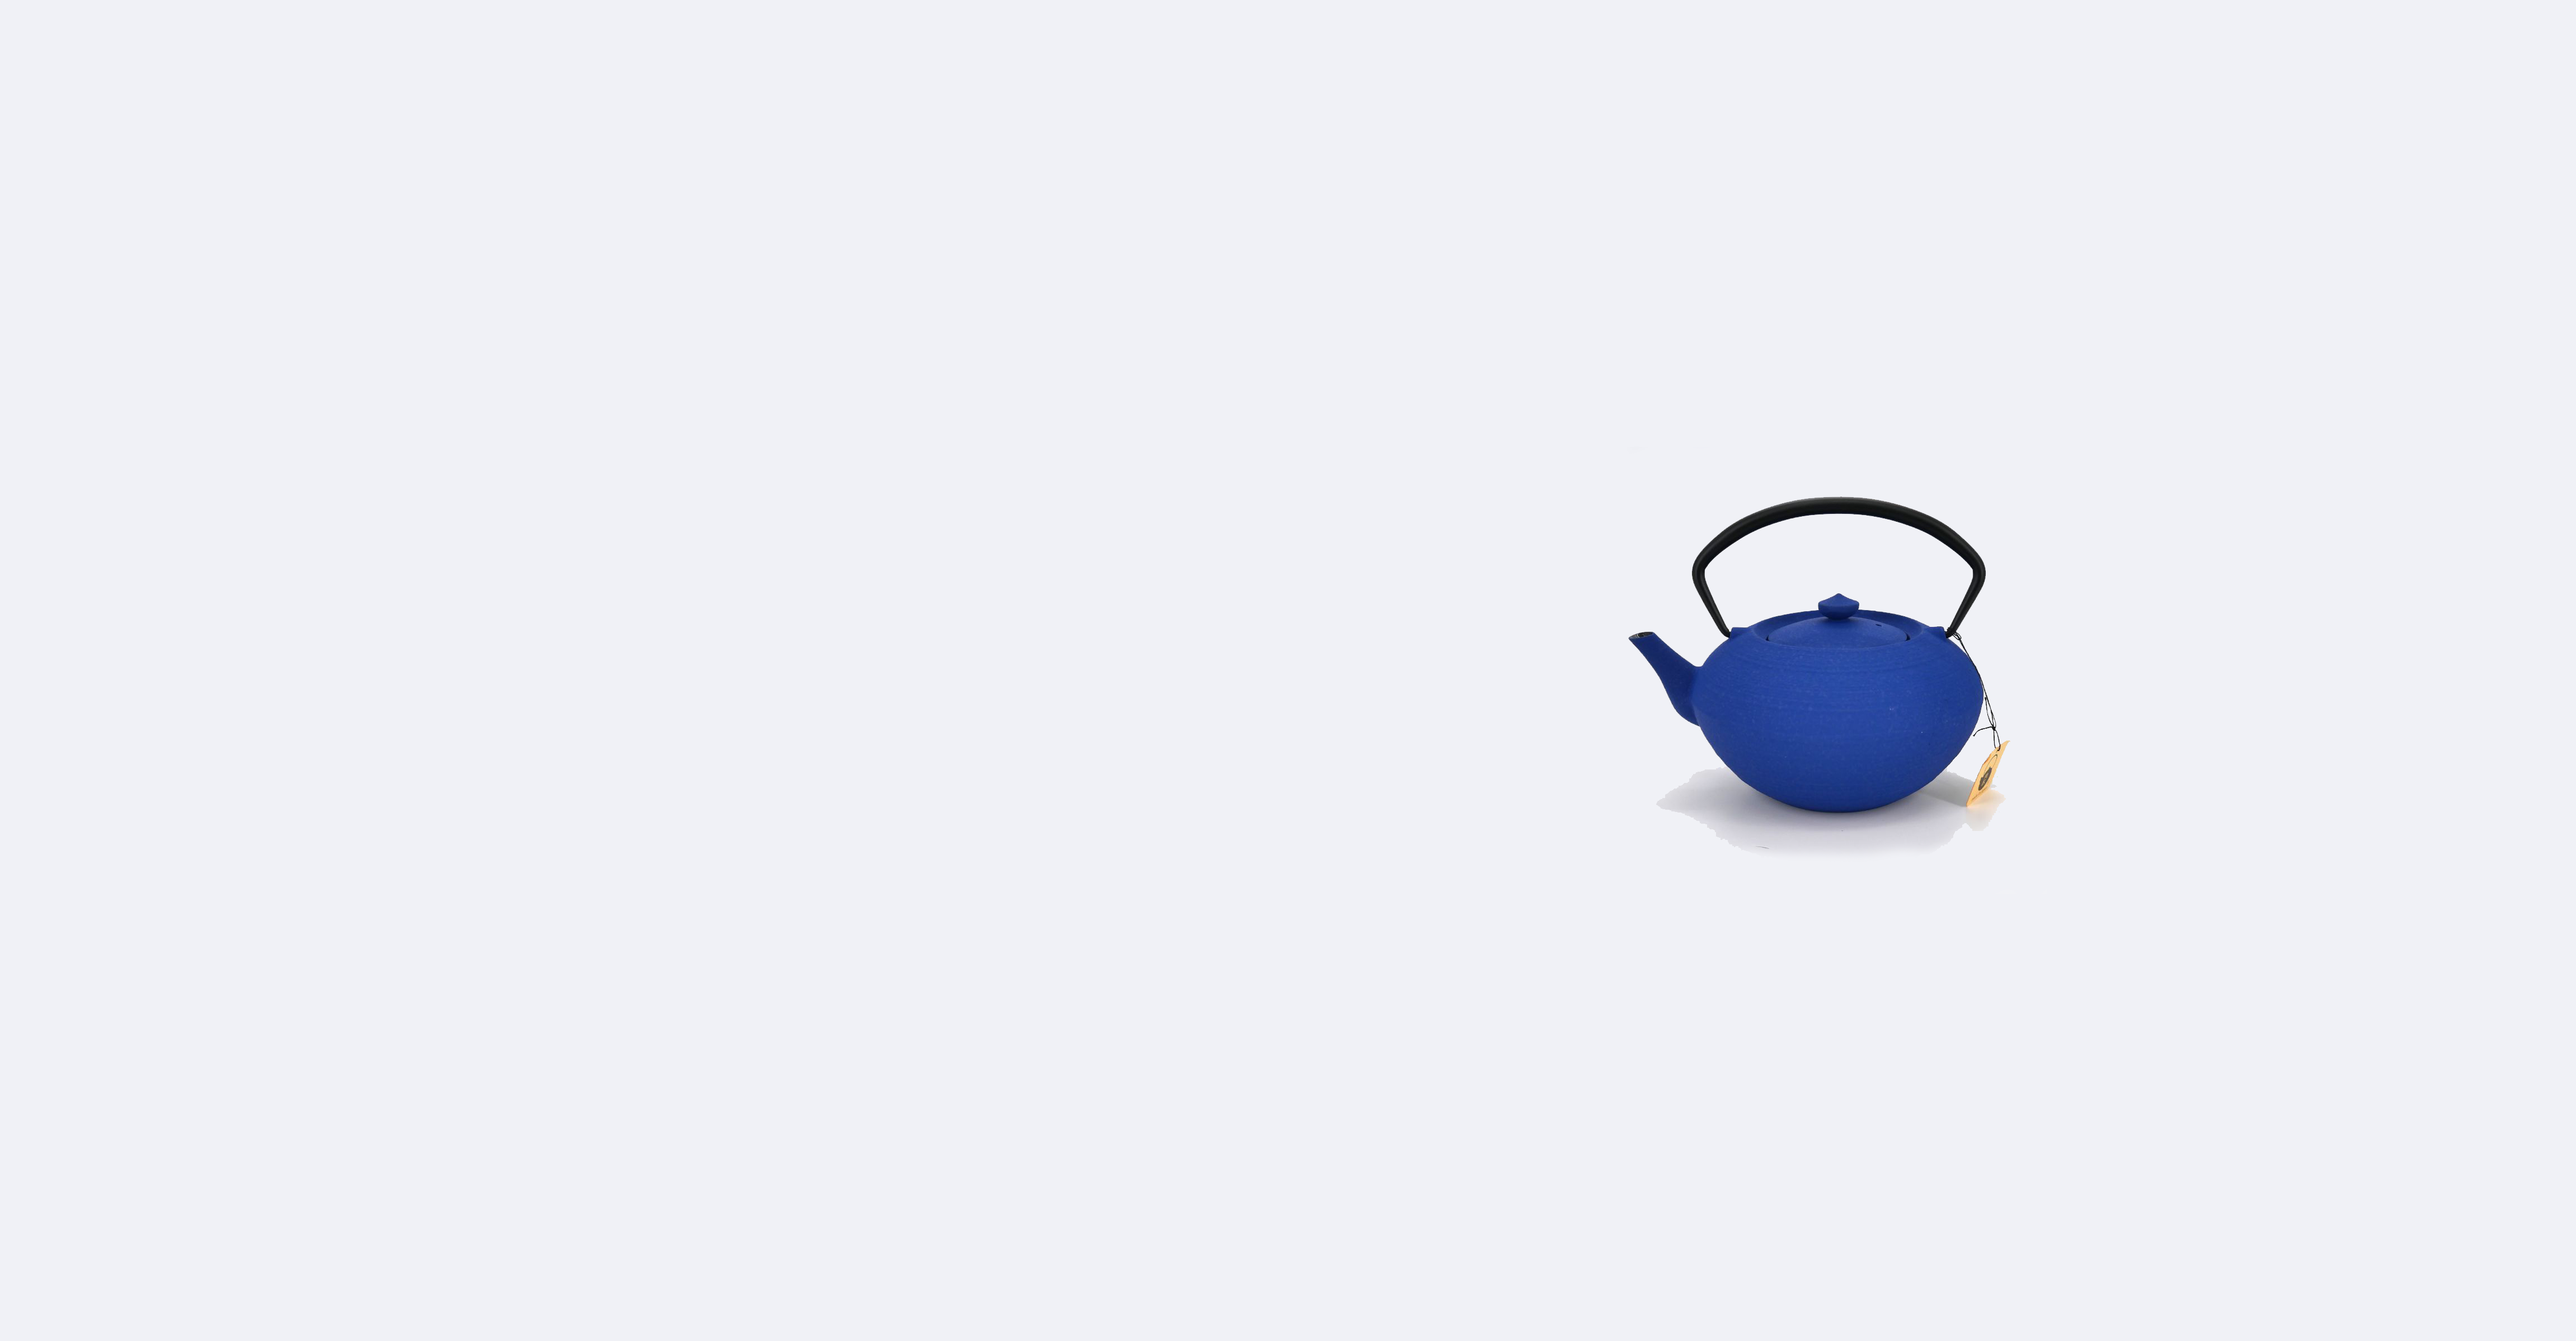
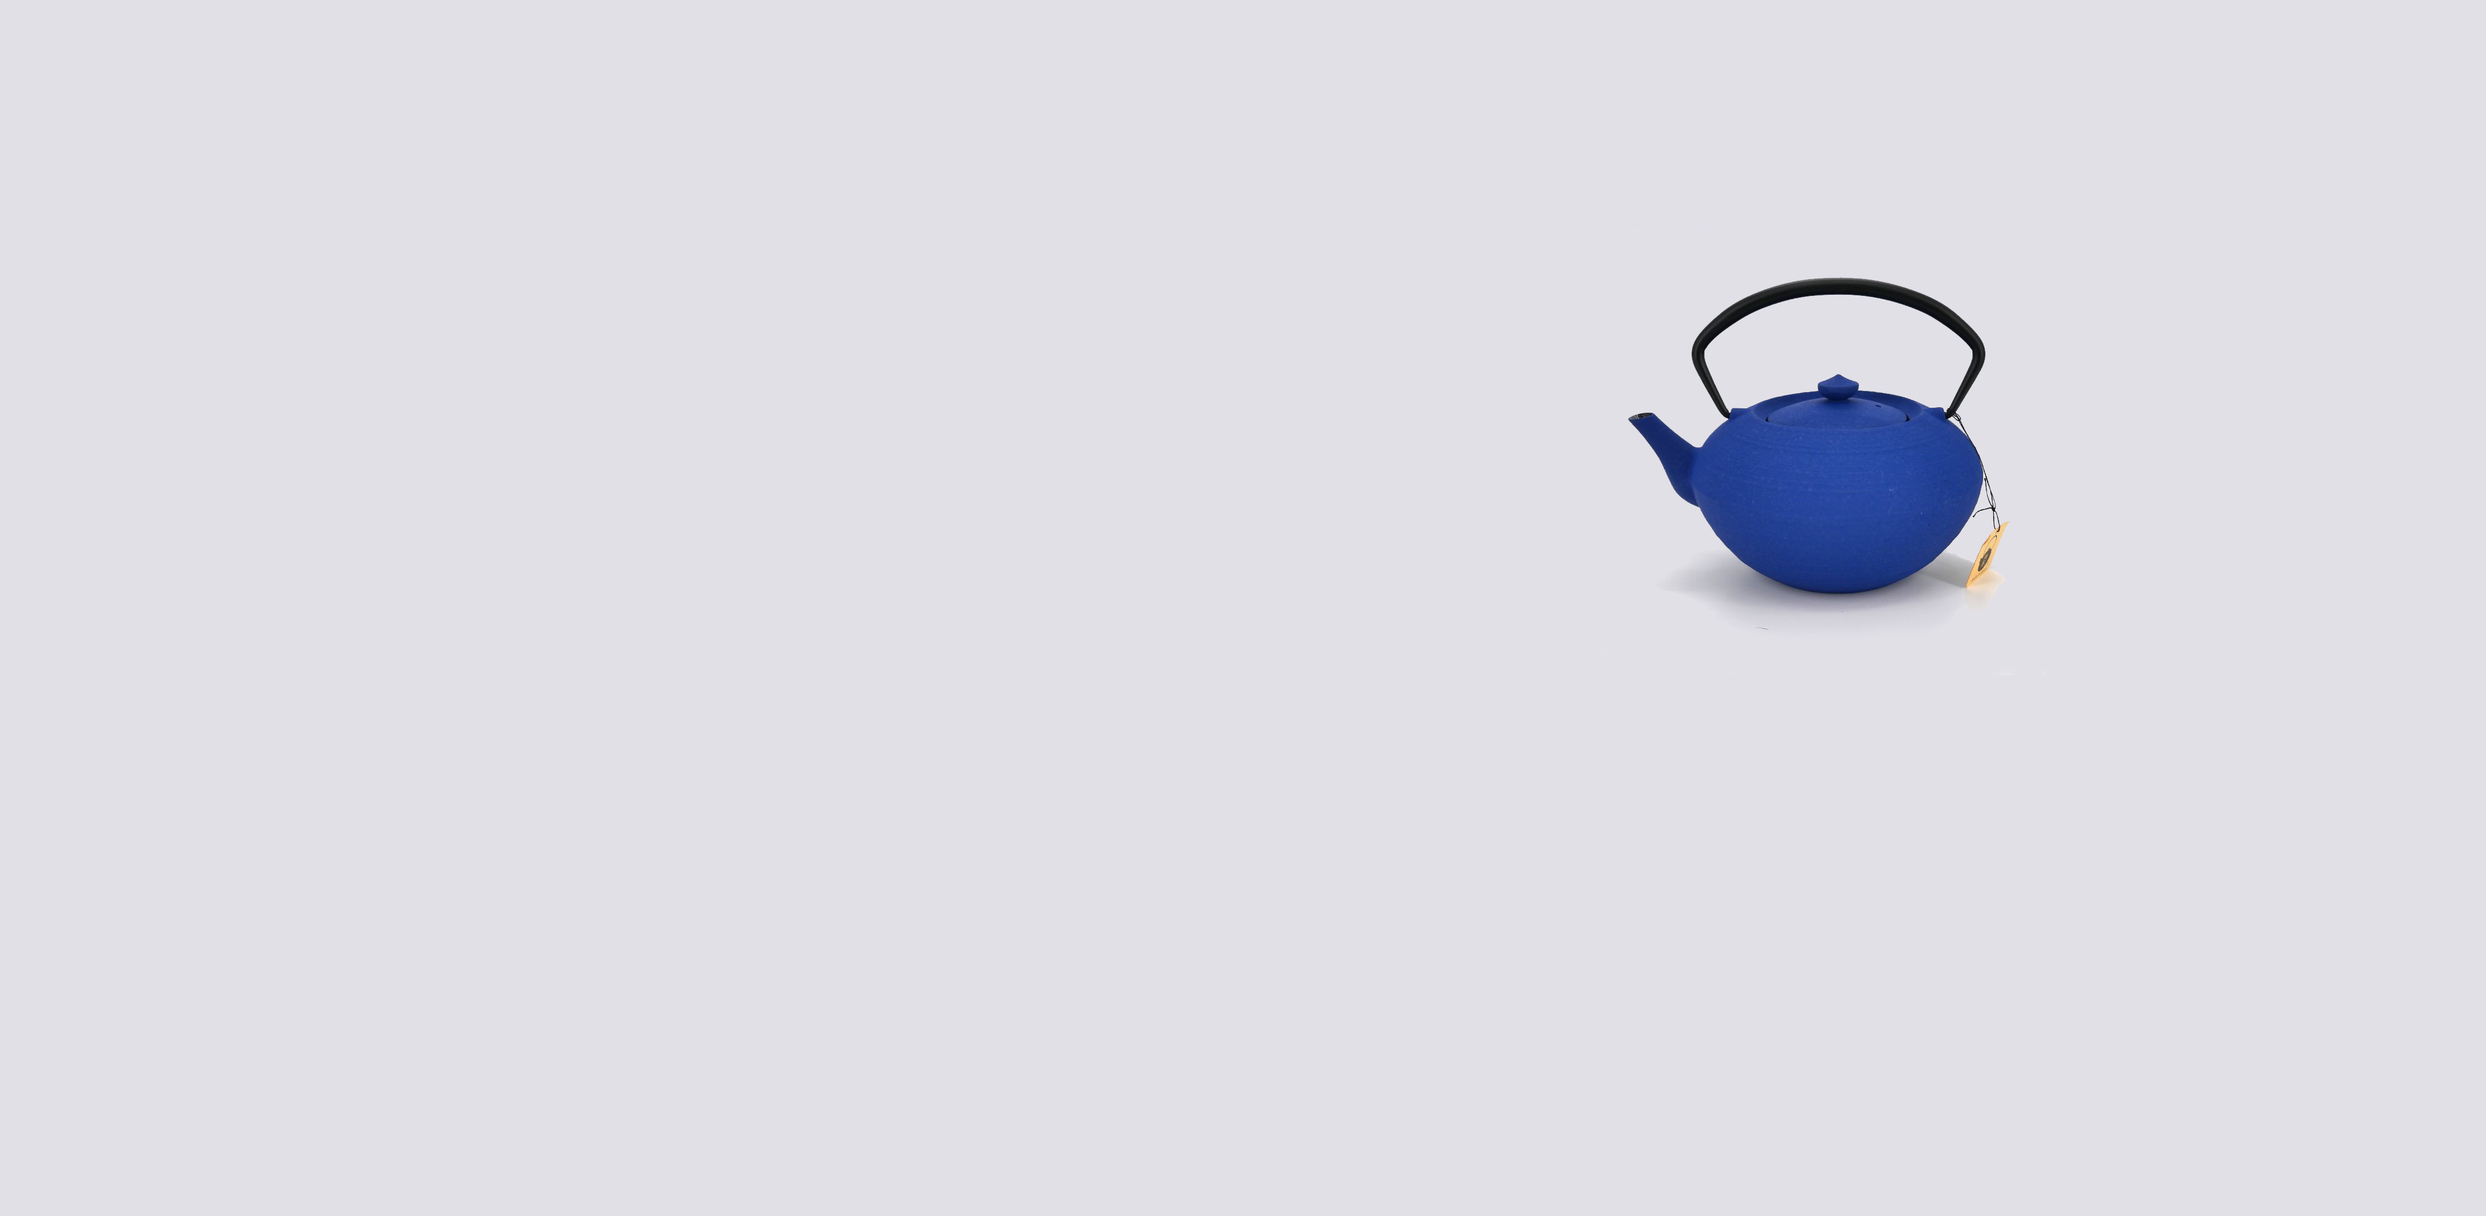
General page styling added

Changed region(s): [[0.6211, 0.2157, 0.8074, 0.6472]]

diff --git a/index.html b/index.html
@@ -64,7 +64,9 @@
     </header>
     <article>
         <div class="page-section about-me-section">
-            <i class="fas fa-user-astronaut blue-icon"></i>
+            <div class="top-level-icon">
+                <i class="fas fa-user-astronaut blue-icon"></i>
+            </div>
             <div class="about-me-inner inner-section">
                 <h3 class="blue-text">About Me</h3>
                 <p>This is some cool text about me, i'll write some kick ass stuff about myself later,
@@ -75,18 +77,18 @@
                     <h4 class="blue-text">Trivia</h4>
                     <div class="row">
                         <div class="col-4">
-                            <img src="assets/icons/beachB.png" class="blue-icon-large">
+                            <img src="assets/icons/beachB.png" class="blue-icon-large second-level-icon">
                             <p>I love outdoor activities like roller-skating, running,
                                 swimming and surfing (though it's tough to surf in Sweden!)</p>
                         </div>
                         <div class="col-4">
-                            <img src="assets/icons/bookB.png" class="blue-icon-large">
+                            <img src="assets/icons/bookB.png" class="blue-icon-large second-level-icon">
                             <p>I have written and self published a childeren's book about time
                                 travel and guineapigs.
                             </p>
                         </div>
                         <div class="col-4">
-                            <img src="assets/icons/light-aircraftB.png" class="blue-icon-large">
+                            <img src="assets/icons/light-aircraftB.png" class="blue-icon-large second-level-icon">
                             <p>I was in the Air Cadets as a teenager, and qualified for a licence to
                                 fly a two man aircraft (sadly it's no longer officially valid).
                             </p>
@@ -98,7 +100,7 @@
         </div>
 
         <div class="page-section work-history-section">
-            <i class="fas fa-building blue-icon"></i>
+            <i class="fas fa-building blue-icon top-level-icon"></i>
             <div class="work-history-inner">
                 <h3 class="blue-text">Work History</h3>
                 <p>This is some cool text about my work history. It will be kind of a sumary of my
@@ -115,17 +117,17 @@
                     <h4 class="blue-text">An Unusual Career</h4>
                     <div class="row">
                         <div class="col-4">
-                            <img src="assets/icons/rescuerB.png" class="blue-icon-large">
+                            <img src="assets/icons/rescuerB.png" class="blue-icon-large second-level-icon">
                             <p>I have worked as a lifeguard, looking after swimmers and administering first aid.</p>
                         </div>
                         <div class="col-4">
-                            <img src="assets/icons/clownB.png" class="blue-icon-large">
+                            <img src="assets/icons/clownB.png" class="blue-icon-large second-level-icon">
                             <p>I have worked as a childeren's entertainer and clown (though sadly i can't
                                 juggle any more).
                             </p>
                         </div>
                         <div class="col-4">
-                            <img src="assets/icons/bouncerB.png" class="blue-icon-large">
+                            <img src="assets/icons/bouncerB.png" class="blue-icon-large second-level-icon">
                             <p>I have worked as a bouncer (security) at clubs, festivals and events.
                             </p>
                         </div>
@@ -136,7 +138,7 @@
         </div>
 
         <div class="page-section skills-section">
-            <i class="far fa-check-circle blue-icon"></i>
+            <i class="far fa-check-circle blue-icon top-level-icon"></i>
             <div class="skills-inner">
                 <h3 class="blue-text">Core Skills</h3>
                 <p>Super short text about how i learned my skills, mention Code Institute & C# programming camp.
@@ -187,7 +189,7 @@
         </div>
 
         <div class="page-section portfolio-section">
-            <i class="fas fa-palette blue-icon"></i>
+            <i class="fas fa-palette blue-icon top-level-icon"></i>
             <div class="portfolio-inner">
                 <h3 class="blue-text">Portfolio</h3>
 
@@ -198,13 +200,13 @@
                         <div class="row">
                             <div class="col-6">
                                 <a target="_blank" href="#">
-                                    <i class="fab fa-desktop blue-icon" aria-hidden="true"></i>
+                                    <i class="fab fa-desktop blue-icon third-level-icon" aria-hidden="true"></i>
                                     <span class="sr-only">Website Link</span>
                                 </a>
                             </div>
                             <div class="col-6">
                                 <a target="_blank" href="#">
-                                    <i class="fab fa-github blue-icon" aria-hidden="true"></i>
+                                    <i class="fab fa-github blue-icon third-level-icon" aria-hidden="true"></i>
                                     <span class="sr-only">Github</span>
                                 </a>
                             </div>
@@ -216,13 +218,13 @@
                         <div class="row">
                             <div class="col-6">
                                 <a target="_blank" href="#">
-                                    <i class="fab fa-desktop blue-icon" aria-hidden="true"></i>
+                                    <i class="fab fa-desktop blue-icon third-level-icon" aria-hidden="true"></i>
                                     <span class="sr-only">Website Link</span>
                                 </a>
                             </div>
                             <div class="col-6">
                                 <a target="_blank" href="#">
-                                    <i class="fab fa-github blue-icon" aria-hidden="true"></i>
+                                    <i class="fab fa-github blue-icon third-level-icon" aria-hidden="true"></i>
                                     <span class="sr-only">Github</span>
                                 </a>
                             </div>
@@ -234,13 +236,13 @@
                         <div class="row">
                             <div class="col-6">
                                 <a target="_blank" href="#">
-                                    <i class="fab fa-desktop blue-icon" aria-hidden="true"></i>
+                                    <i class="fab fa-desktop blue-icon third-level-icon" aria-hidden="true"></i>
                                     <span class="sr-only">Website Link</span>
                                 </a>
                             </div>
                             <div class="col-6">
                                 <a target="_blank" href="#">
-                                    <i class="fab fa-github blue-icon" aria-hidden="true"></i>
+                                    <i class="fab fa-github blue-icon third-level-icon" aria-hidden="true"></i>
                                     <span class="sr-only">Github</span>
                                 </a>
                             </div>
@@ -249,7 +251,7 @@
                 </div>
                 <div class="github-icon">
                     <a target="_blank" href="#">
-                        <i class="fab fa-github blue-icon" aria-hidden="true"></i>
+                        <i class="fab fa-github blue-icon second-level-icon" aria-hidden="true"></i>
                         <span class="sr-only">Github Profile</span>
                     </a>
                     <p>Visit my github profile</p>
@@ -268,7 +270,7 @@
         </div>
 
         <div class="page-section contact-section">
-            <i class="far fa-comments blue-icon"></i>
+            <i class="far fa-comments blue-icon top-level-icon"></i>
             <div class="contact-inner">
                 <h3 class="blue-text">Contact Me</h3>
                 <p>Interested in working with me? I would love to hear from you! Fill in the form below

diff --git a/assets/css/style.css b/assets/css/style.css
@@ -1,17 +1,11 @@
 /*-------------------------------------------------Colours */
 
-/*  header and footer background
-        page background (white)
-        class - default text (dark grey)
-        class - default header (aqua)
-        class - icon (aqua) */
-
 .blue-icon {
     color: #007CAD;
 }
 
 .blue-icon-large {
-    max-width: 35px;
+    max-width: 50px;
 }
 
 .blue-text {
@@ -27,24 +21,95 @@
 }
 
 .grey-line {
-    width: 100%;
-    height: 2px;
     background-color: rgb(155, 155, 158);
-    margin-bottom: 10px;
 }
 
-/*-------------------------------------------------General page rules */
+/* GENERAL PAGE RULES */
+
+/*-------------------------------------------------Icons */
+
+.top-level-icon {
+    display: flex;
+    align-items: center;
+    justify-content: center;
+    font-size: 60px;
+    padding-top: 25px;
+    padding-bottom: 25px;
+}
+
+.second-level-icon {
+    display: block;
+    margin-left: auto;
+    margin-right: auto;
+    font-size: 45px;
+    width: 45px;
+    padding-bottom: 15px;
+}
+
+.third-level-icon {
+    font-size: 25px;
+    display: flex;
+    align-items: center;
+    justify-content: center;
+    padding-top: 5px;
+    padding-bottom: 5px;
+}
+
+.fa-chevron-down {
+    display: flex;
+    align-items: center;
+    justify-content: center;
+    padding-top: 15px;
+    padding-bottom: 25px;
+}
+
+.grey-line {
+    width: 100%;
+    height: 2px;
+    margin-bottom: 15px;
+    margin-top: 15px;
+}
+/*-------------------------------------------------Sections */
+
+.page-section {
+    padding-top: 25px;
+    padding-bottom: 25px;
+    padding-right: 10%;
+    padding-left: 10%;
+}
+
+.inner-section {}
+
+.second-inner-section {}
+
+/*-------------------------------------------------Headers & Paragraphs */
+
+h3, h4, h5, h6 {
+    text-align: center;
+}
+
+h3 {
+    padding-bottom: 15px;
+    padding-top: 5px;
+}
+
+h4 {
+    padding-bottom: 20px;
+}
+
+h5 {
+    padding-top: 20px;
+    padding-bottom: 20px;
+}
+
+p {
+    padding-bottom: 10px;
+}
 
 .row {
     padding: 0;
     margin: 0;
 }
-
-.page-section {}
-
-.inner-section {}
-
-.second-inner-section {}
 
 /*  rule for sections - can only have one open at once
         rule for sub section - when a different section is clicked on sub section collapses
@@ -81,7 +146,6 @@
     width: 150px;
     text-align: left;
     font-size: 15px;
-    /*transform: translateY(-110%);*/
     transform: scaleY(0);
     transform-origin: top;
     transition: transform .5s ease-in-out;
@@ -113,7 +177,6 @@
 }
 
 .dropdown:hover .dropdownMenu {
-    /*transform: translateY(0);*/
     transform: scaleY(1);
 }
 
@@ -135,7 +198,7 @@
 
 .header-background {
     height: 100vw;
-    background: url("../images/banner-image2.png") no-repeat center center fixed;
+    background: url("../images/banner-image3.png") no-repeat center center fixed;
     -webkit-background-size: cover;
     -moz-background-size: cover;
     -o-background-size: cover;
@@ -152,10 +215,14 @@ h1.title, h2.role {
     padding-left: 10%;
 }
 
-@media (min-width: 768px) {
-   .header-background {
-        height: 700px;
+@media (min-width: 576px) {
+      .header-background {
+        height: 550px;
     }
+}
+
+@media (min-width: 768px) {
+ 
 }
 
 @media (min-width: 992px) {
@@ -163,7 +230,7 @@ h1.title, h2.role {
 }
 
 @media (min-width: 1200px) {
-    ...
+
 }
 
 /*-------------------------------------------------Footer */
@@ -175,7 +242,6 @@ h1.title, h2.role {
 }
 
 .footer {
-    color: #4a4a4f;
     min-height: 50px;
 }
 
